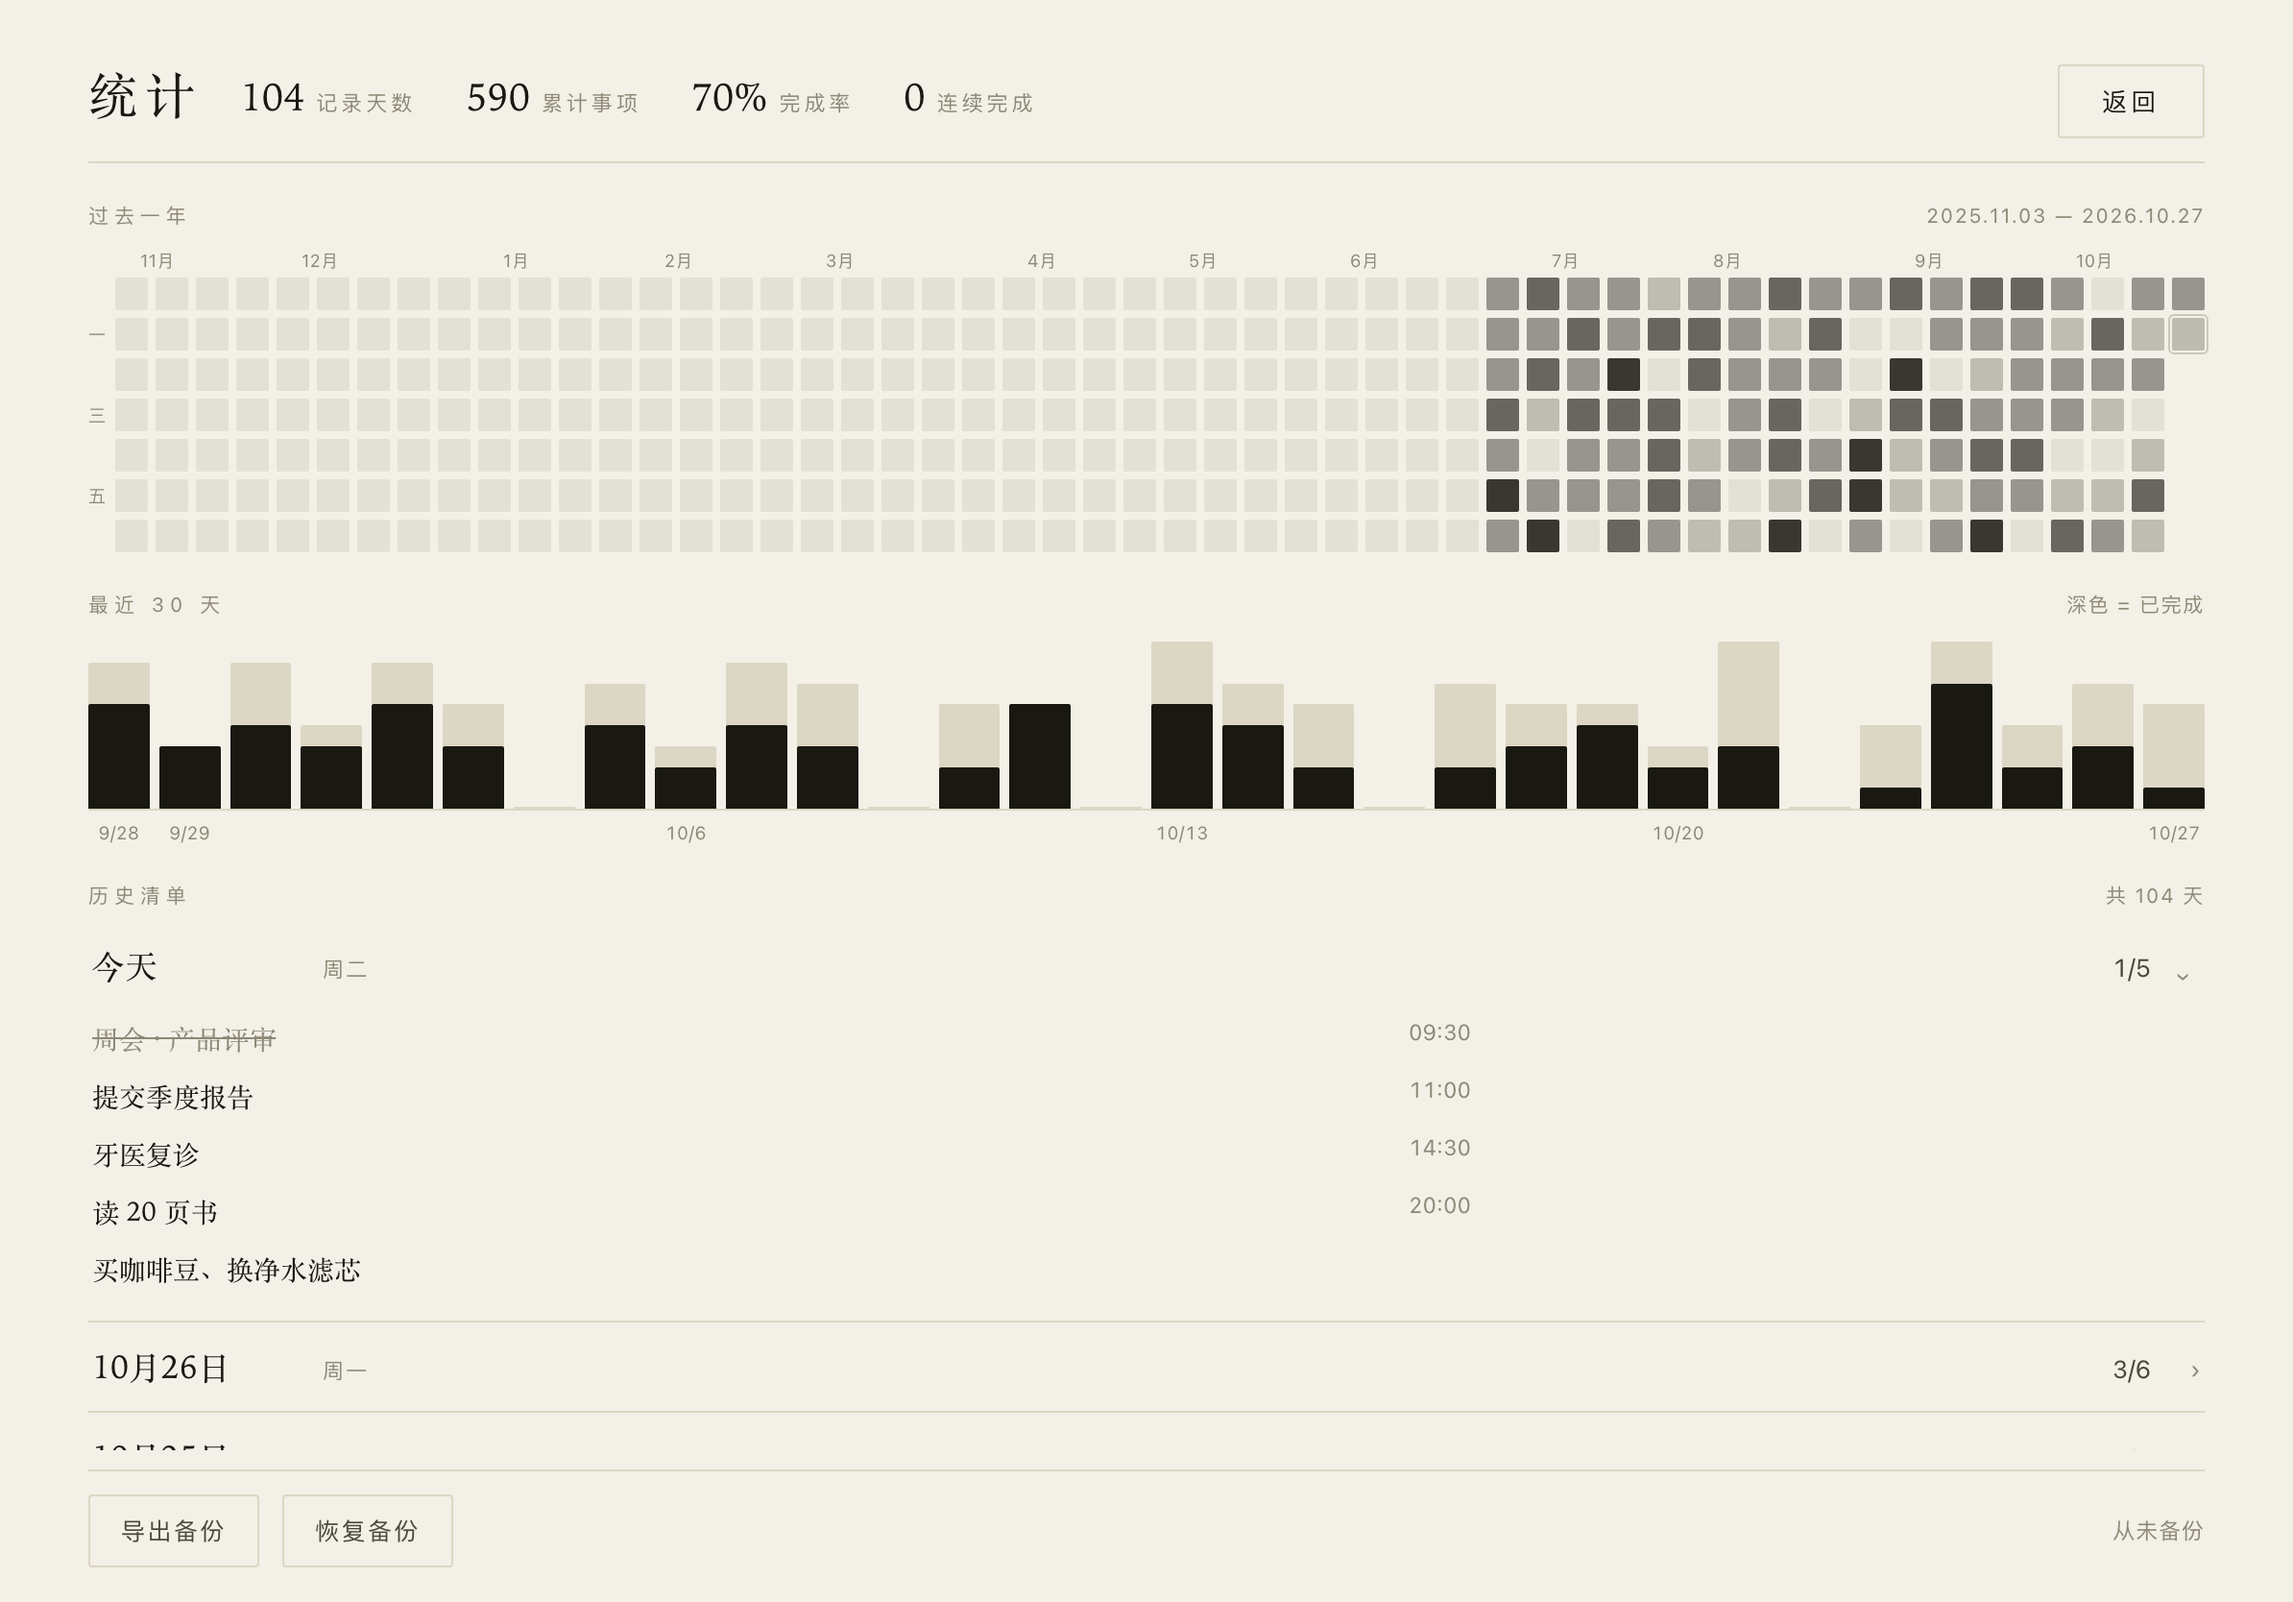
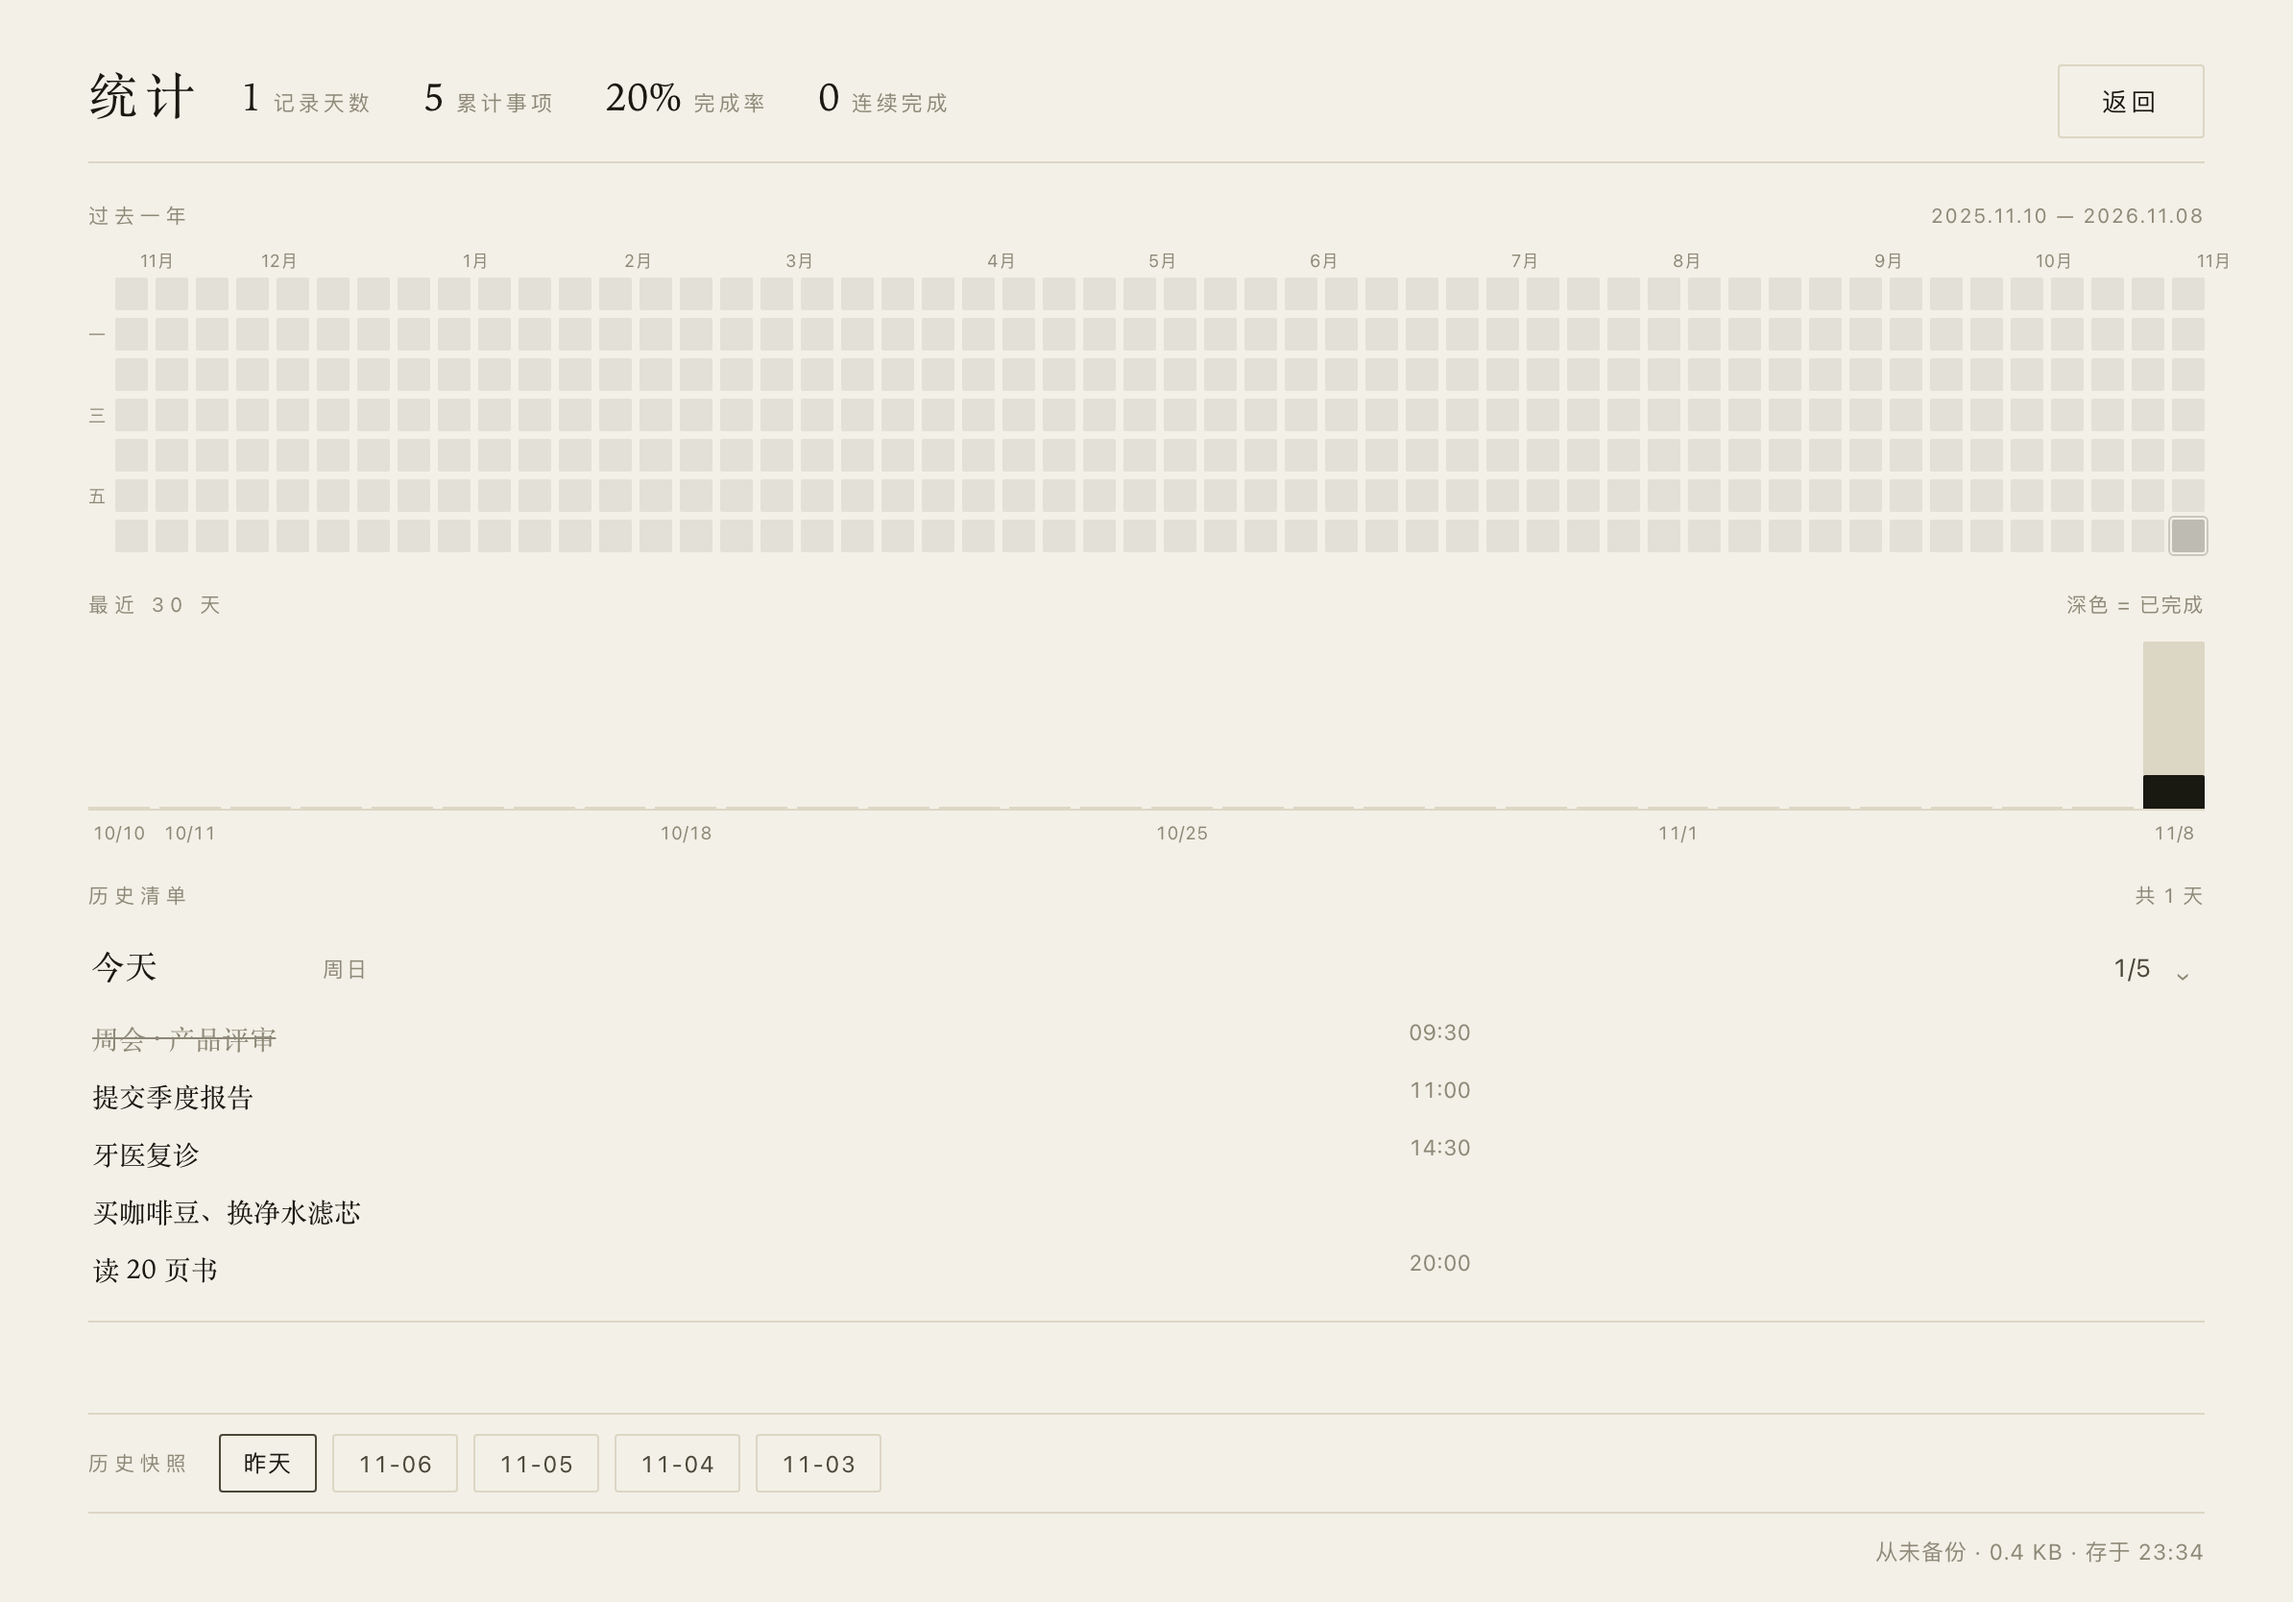
跨天自动留前一天快照，统计页可选择回滚到 7 天内任意一天（v38）

diff --git a/index.html b/index.html
@@ -380,6 +380,18 @@
   .hi.done .t{color:var(--muted);text-decoration:line-through;text-decoration-thickness:1px}
   #hist .empty{font-family:var(--serif);font-size:16px;color:var(--muted);padding:24px 0;letter-spacing:.02em}
 
+  .st-snap{display:flex;align-items:center;gap:14px;padding-top:10px;border-top:1px solid var(--rule);margin-top:8px}
+  .st-snap .k{font-size:10.5px;letter-spacing:.28em;color:var(--muted);flex:0 0 auto}
+  .st-snap .list{display:flex;gap:8px;flex-wrap:wrap}
+  .st-snap button{
+    background:transparent;border:1px solid var(--rule);border-radius:2px;
+    color:var(--ink-2);font-family:var(--sans);font-size:12px;letter-spacing:.06em;
+    padding:6px 12px;cursor:pointer;font-variant-numeric:tabular-nums;
+  }
+  .st-snap button.default{border-color:var(--ink-2);color:var(--ink)}
+  .st-snap button:active{background:var(--ink);color:var(--paper);border-color:var(--ink)}
+  .st-snap .none{font-size:12px;color:var(--muted);letter-spacing:.04em}
+
   .st-foot{
     display:flex;align-items:center;gap:12px;
     padding-top:12px;margin-top:10px;border-top:1px solid var(--rule);
@@ -520,8 +532,12 @@
     <div id="hist"></div>
   </div>
 
+  <div class="st-snap">
+    <span class="k">历史快照</span>
+    <span class="list" id="snapList"></span>
+  </div>
+
   <div class="st-foot">
-    <button id="btnSnap">回滚快照</button>
     <span class="note" id="backupNote">从未备份</span>
   </div>
 </div>
@@ -726,7 +742,7 @@
     ]
   };
 
-  const BUILD = "v36";   // 改版时 +1，页脚可见，用来确认主屏 App 拿到的是哪一版
+  const BUILD = "v38";   // 改版时 +1，页脚可见，用来确认主屏 App 拿到的是哪一版
 
   const params = new URLSearchParams(location.search);
   const DEMO_MODE = params.has("demo");
@@ -1051,14 +1067,13 @@
 
   const SNAP_PREFIX = "board.snap.";
 
-  function snapToday() {
-    if (DEMO_MODE) return;
+  // 跨天时把“刚结束的那一天”整份存下来
+  function writeSnap(day, items, pool, history) {
+    if (DEMO_MODE || !day) return;
     try {
-      const k = SNAP_PREFIX + dayKey();
-      if (localStorage.getItem(k)) return;      // 今天已经存过
-      localStorage.setItem(k, JSON.stringify({
-        v: 4, day: state.todoDay, items: state.todos, pool: state.pool,
-        history: state.history, savedAt: Date.now(), snap: true
+      localStorage.setItem(SNAP_PREFIX + day, JSON.stringify({
+        v: 4, day: day, items: items, pool: pool, history: history,
+        savedAt: Date.now(), snap: true
       }));
       const keys = [];
       for (let i = 0; i < localStorage.length; i++) {
@@ -1068,6 +1083,17 @@
       keys.sort();
       while (keys.length > 7) localStorage.removeItem(keys.shift());
     } catch (e) {}
+  }
+
+  function allSnaps() {
+    const out = [];
+    for (let i = 0; i < localStorage.length; i++) {
+      const key = localStorage.key(i);
+      if (key && key.indexOf(SNAP_PREFIX) === 0) {
+        out.push({ key: key, data: readJSON(key, null) });
+      }
+    }
+    return out.filter(x => x.data && Array.isArray(x.data.items)).sort((a, b) => (a.key < b.key ? 1 : -1));
   }
 
   function latestSnap() {
@@ -1113,7 +1139,6 @@
       try { localStorage.setItem(TODO_KEY, JSON.stringify(payload)); } catch (e2) {}
     }
     state.todoSource = "local";
-    snapToday();
   }
 
   // 把某一天的完整清单（含未完成）写进历史
@@ -1130,6 +1155,8 @@
     const today = dayKey();
     if (!state.todoDay) { state.todoDay = today; return false; }
     if (state.todoDay === today) return false;
+
+    writeSnap(state.todoDay, state.todos, state.pool, state.history);   // 前一天整份留档
 
     if (CONFIG.todos.dailyArchive) {
       snapshotDay(state.todoDay, state.todos);
@@ -1791,14 +1818,20 @@
     }
     $("#histNote").textContent = "共 " + histKeys.length + " 天";
     $("#backupNote").textContent = lastBackupText() + " · " + storageInfo();
-    const snap = latestSnap();
-    const btn = $("#btnSnap");
-    if (btn) {
-      if (snap) {
-        btn.style.display = "";
-        btn.textContent = "回滚到 " + snap.key.replace(SNAP_PREFIX, "").slice(5);
+    const snaps = allSnaps();
+    const list = $("#snapList");
+    if (list) {
+      if (!snaps.length) {
+        list.innerHTML = '<span class="none">还没有快照，明天起每天一份，保留 7 天</span>';
       } else {
-        btn.style.display = "none";
+        const p = nowParts();
+        const y = new Date(Date.UTC(p.y, p.m - 1, p.d) - 86400000);
+        const yKey = y.getUTCFullYear() + "-" + pad2(y.getUTCMonth() + 1) + "-" + pad2(y.getUTCDate());
+        list.innerHTML = snaps.map((sn, i) => {
+          const d = sn.key.replace(SNAP_PREFIX, "");
+          const label = (i === 0 && d === yKey) ? "昨天" : d.slice(5);
+          return '<button data-day="' + d + '"' + (i === 0 ? ' class="default"' : "") + ">" + label + "</button>";
+        }).join("");
       }
     }
   }
@@ -1842,7 +1875,7 @@
         state.history[k] = { items: d.items, at: d.at || 0 };
       }
     });
-    state.todoDay = data.day || dayKey();
+    state.todoDay = dayKey();   // 恢复的内容落到今天，避免立刻又被跨天归档
     saveTodos();
     renderTodos();
     renderStats();
@@ -1906,15 +1939,16 @@
   $("#btnExport").addEventListener("click", exportBackup);
   $("#btnImportBackup").addEventListener("click", () => $("#fileBackup").click());
 
-  $("#btnSnap").addEventListener("click", () => {
-    const snap = latestSnap();
-    if (!snap || !snap.data) { alert("还没有可用的每日快照。"); return; }
-    const d = snap.key.replace(SNAP_PREFIX, "");
-    const t = snap.data.savedAt
-      ? new Intl.DateTimeFormat("zh-CN", { timeZone: TZ, hour: "2-digit", minute: "2-digit", hourCycle: "h23" }).format(new Date(snap.data.savedAt))
+  $("#snapList").addEventListener("click", e => {
+    const btn = e.target.closest("button[data-day]");
+    if (!btn) return;
+    const snap = readJSON(SNAP_PREFIX + btn.dataset.day, null);
+    if (!snap || !Array.isArray(snap.items)) { alert("这份快照读不出来了。"); return; }
+    const t = snap.savedAt
+      ? new Intl.DateTimeFormat("zh-CN", { timeZone: TZ, hour: "2-digit", minute: "2-digit", hourCycle: "h23" }).format(new Date(snap.savedAt))
       : "";
-    if (!window.confirm("回到 " + d + (t ? " " + t : "") + " 的状态？（当前的清单和历史会被替换）")) return;
-    applyBackup(snap.data);
+    if (!window.confirm("回到 " + btn.dataset.day + (t ? " " + t : "") + " 的状态？（当前的清单和历史会被替换）")) return;
+    applyBackup(snap);
   });
 
   $("#btnRestoreBak").addEventListener("click", () => {

diff --git a/README.md b/README.md
@@ -157,7 +157,7 @@ location: { name: "上海 · 徐汇", lat: 31.1884, lon: 121.4336, tz: "Asia/Sha
 - **最近 30 天**：柱子深色是已完成、浅色是没做完；没记录的日子只剩一条基线。
 - **历史清单**：按天倒序排，点一行展开当天完整清单（含没做完的）。
 
-**防丢**：每天存一份**全量快照**（独立键 `board.snap.YYYY-MM-DD`，保留 7 天），统计页有「回滚到 MM-DD」按钮，能连以后池和历史一起回到那一天。另外每次写入前会把上一版存成 `board.todos.bak`；主存储一旦缺失，打开时会自动用这份快照顶上。统计页还有「恢复上一版」按钮，以及一行 `数据 4.2 KB · 存于 22:31` 的诊断信息。
+**防丢**：跨天时把**前一天的完整状态**（清单 + 以后池 + 历史）存成一份快照，键名 `board.snap.YYYY-MM-DD`，保留最近 7 份。统计页底部有「历史快照」一行，默认第一颗是「昨天」，也可以点任意一天回滚——恢复后内容会落到今天，不会被跨天逻辑再归档一次。另外每次写入前会把上一版存成 `board.todos.bak`；主存储一旦缺失，打开时会自动用这份快照顶上。统计页还有「恢复上一版」按钮，以及一行 `数据 4.2 KB · 存于 22:31` 的诊断信息。
 
 **备份**：待办面板底部有「导出备份 / 恢复备份 / 恢复上一版」。iPad 上导出会走系统分享面板，可以直接存进「文件」或 iCloud Drive；要在新设备上恢复，选那个 JSON 即可，会覆盖当前清单、**以后池**和全部历史。旁边一行会显示「上次备份：X 天前」，超过一个月没备份就去点一下。
 
